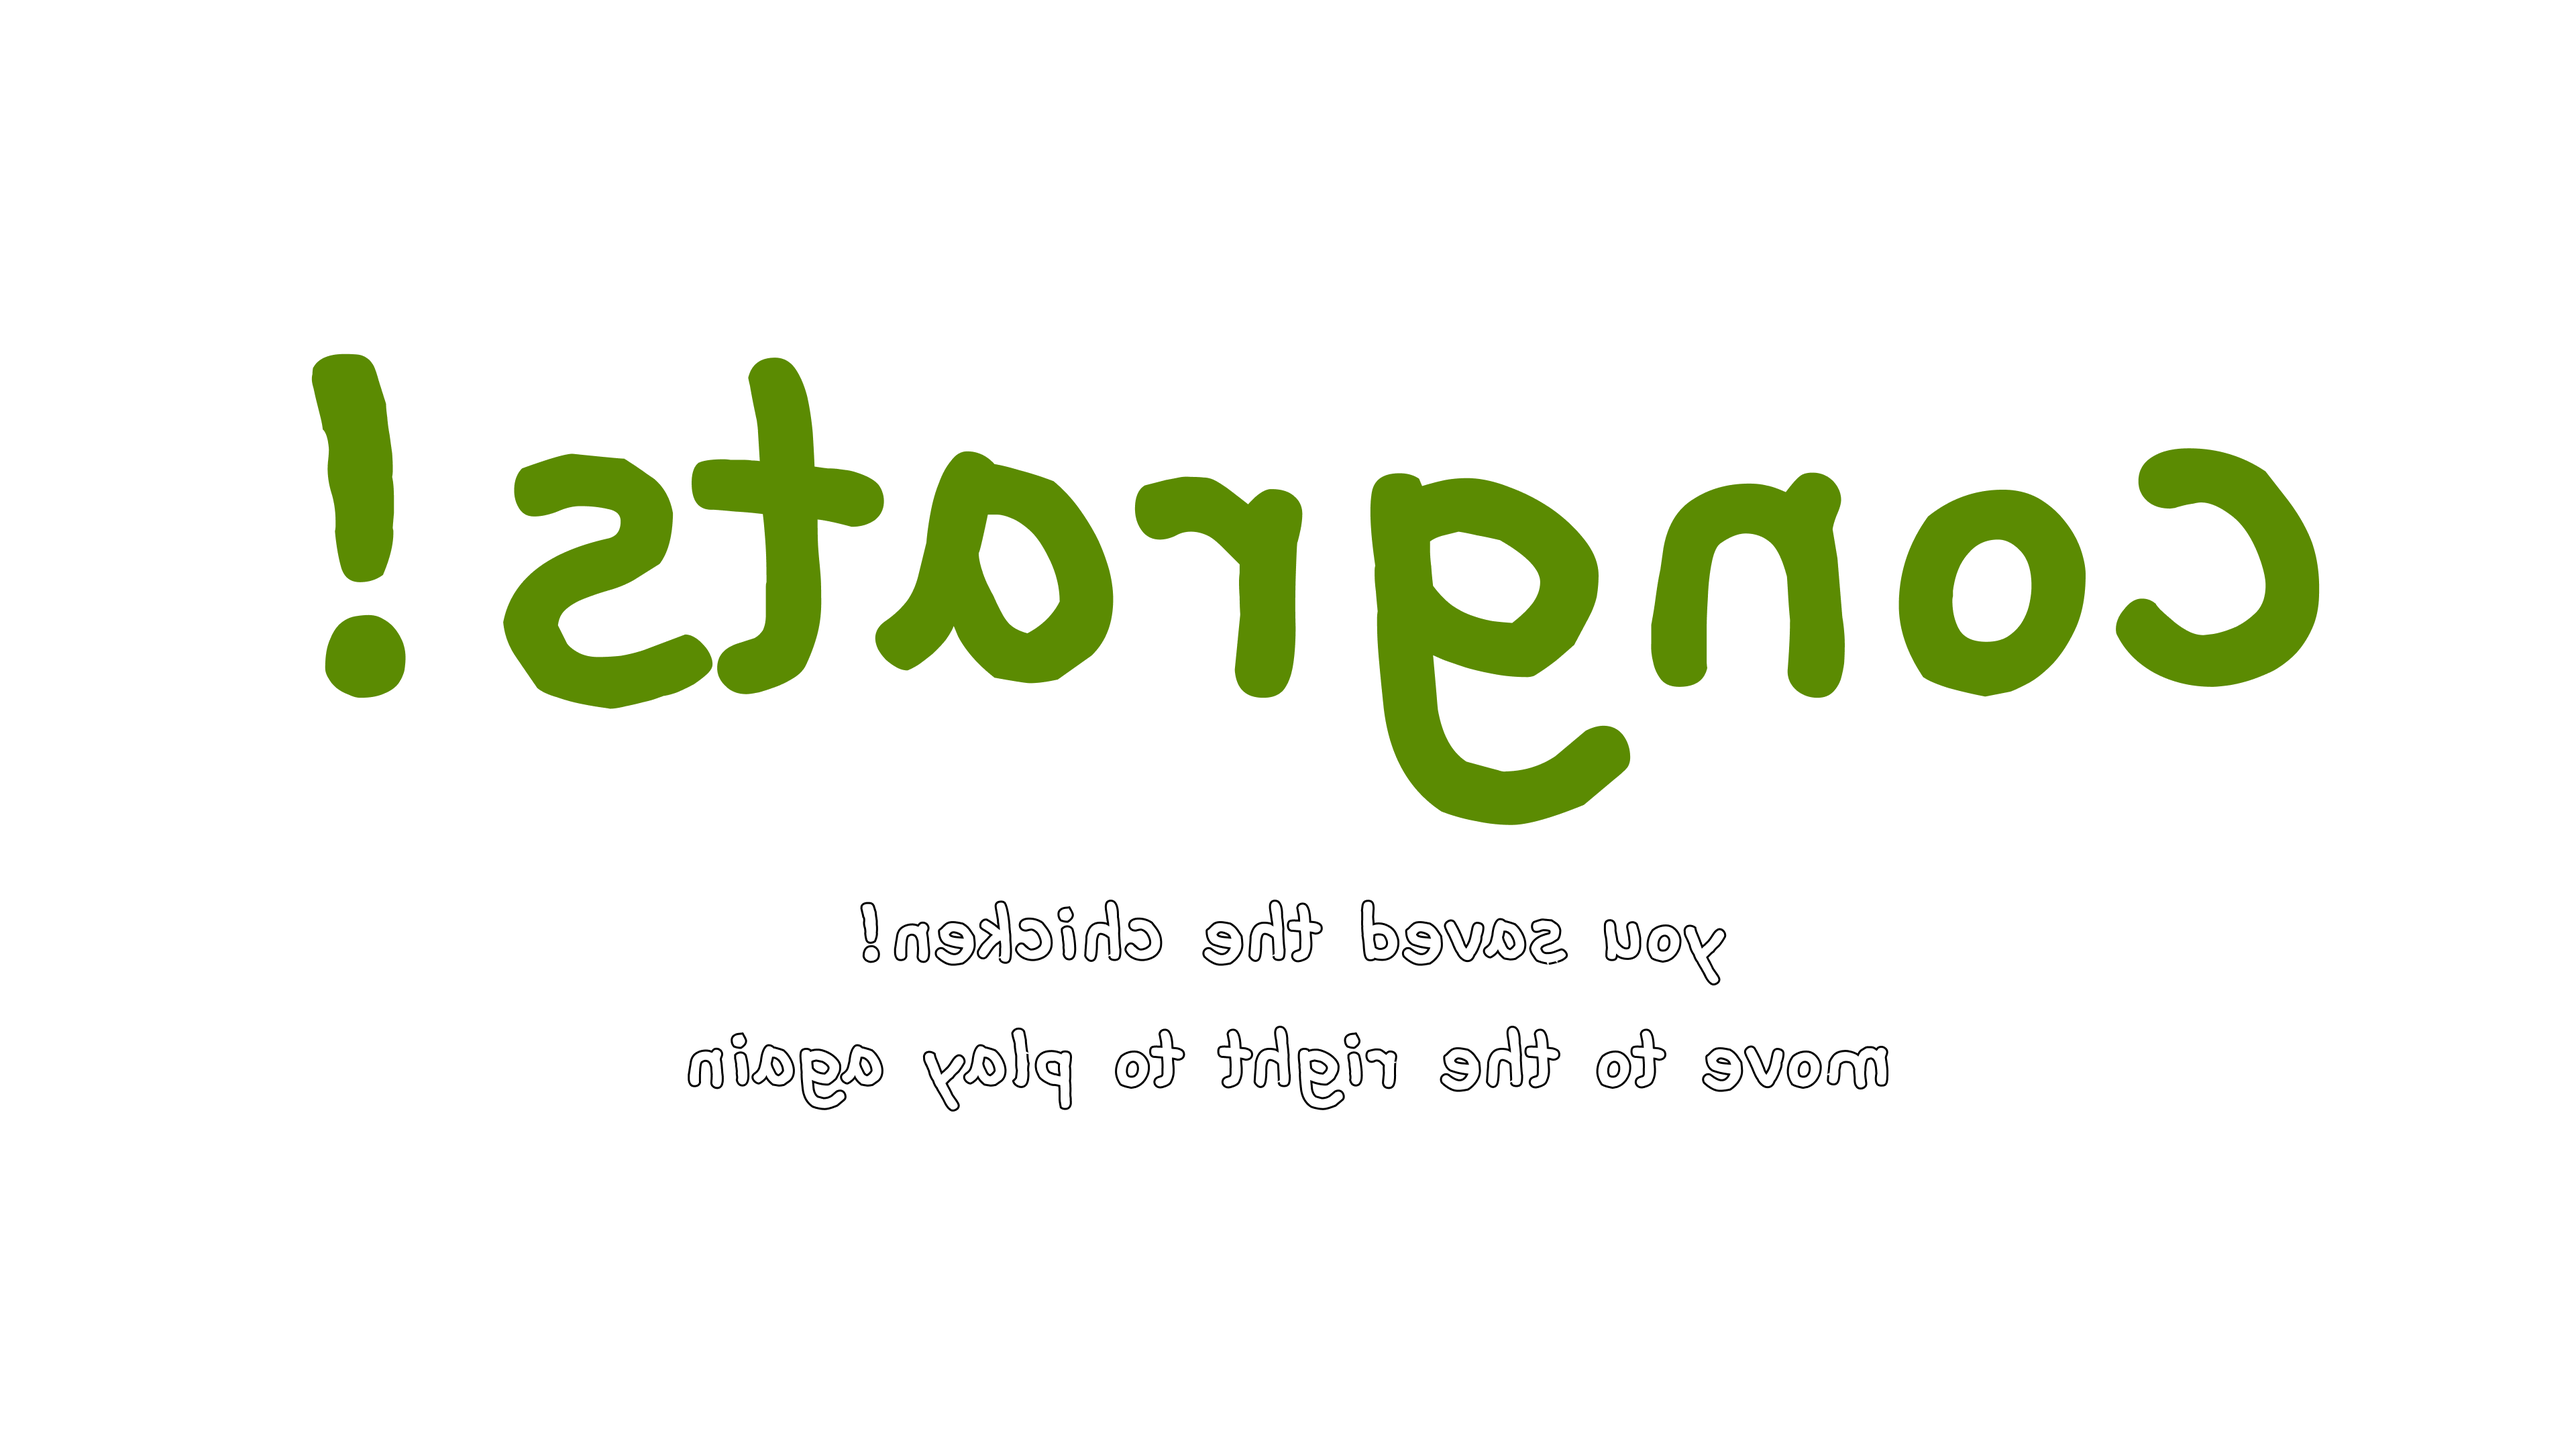
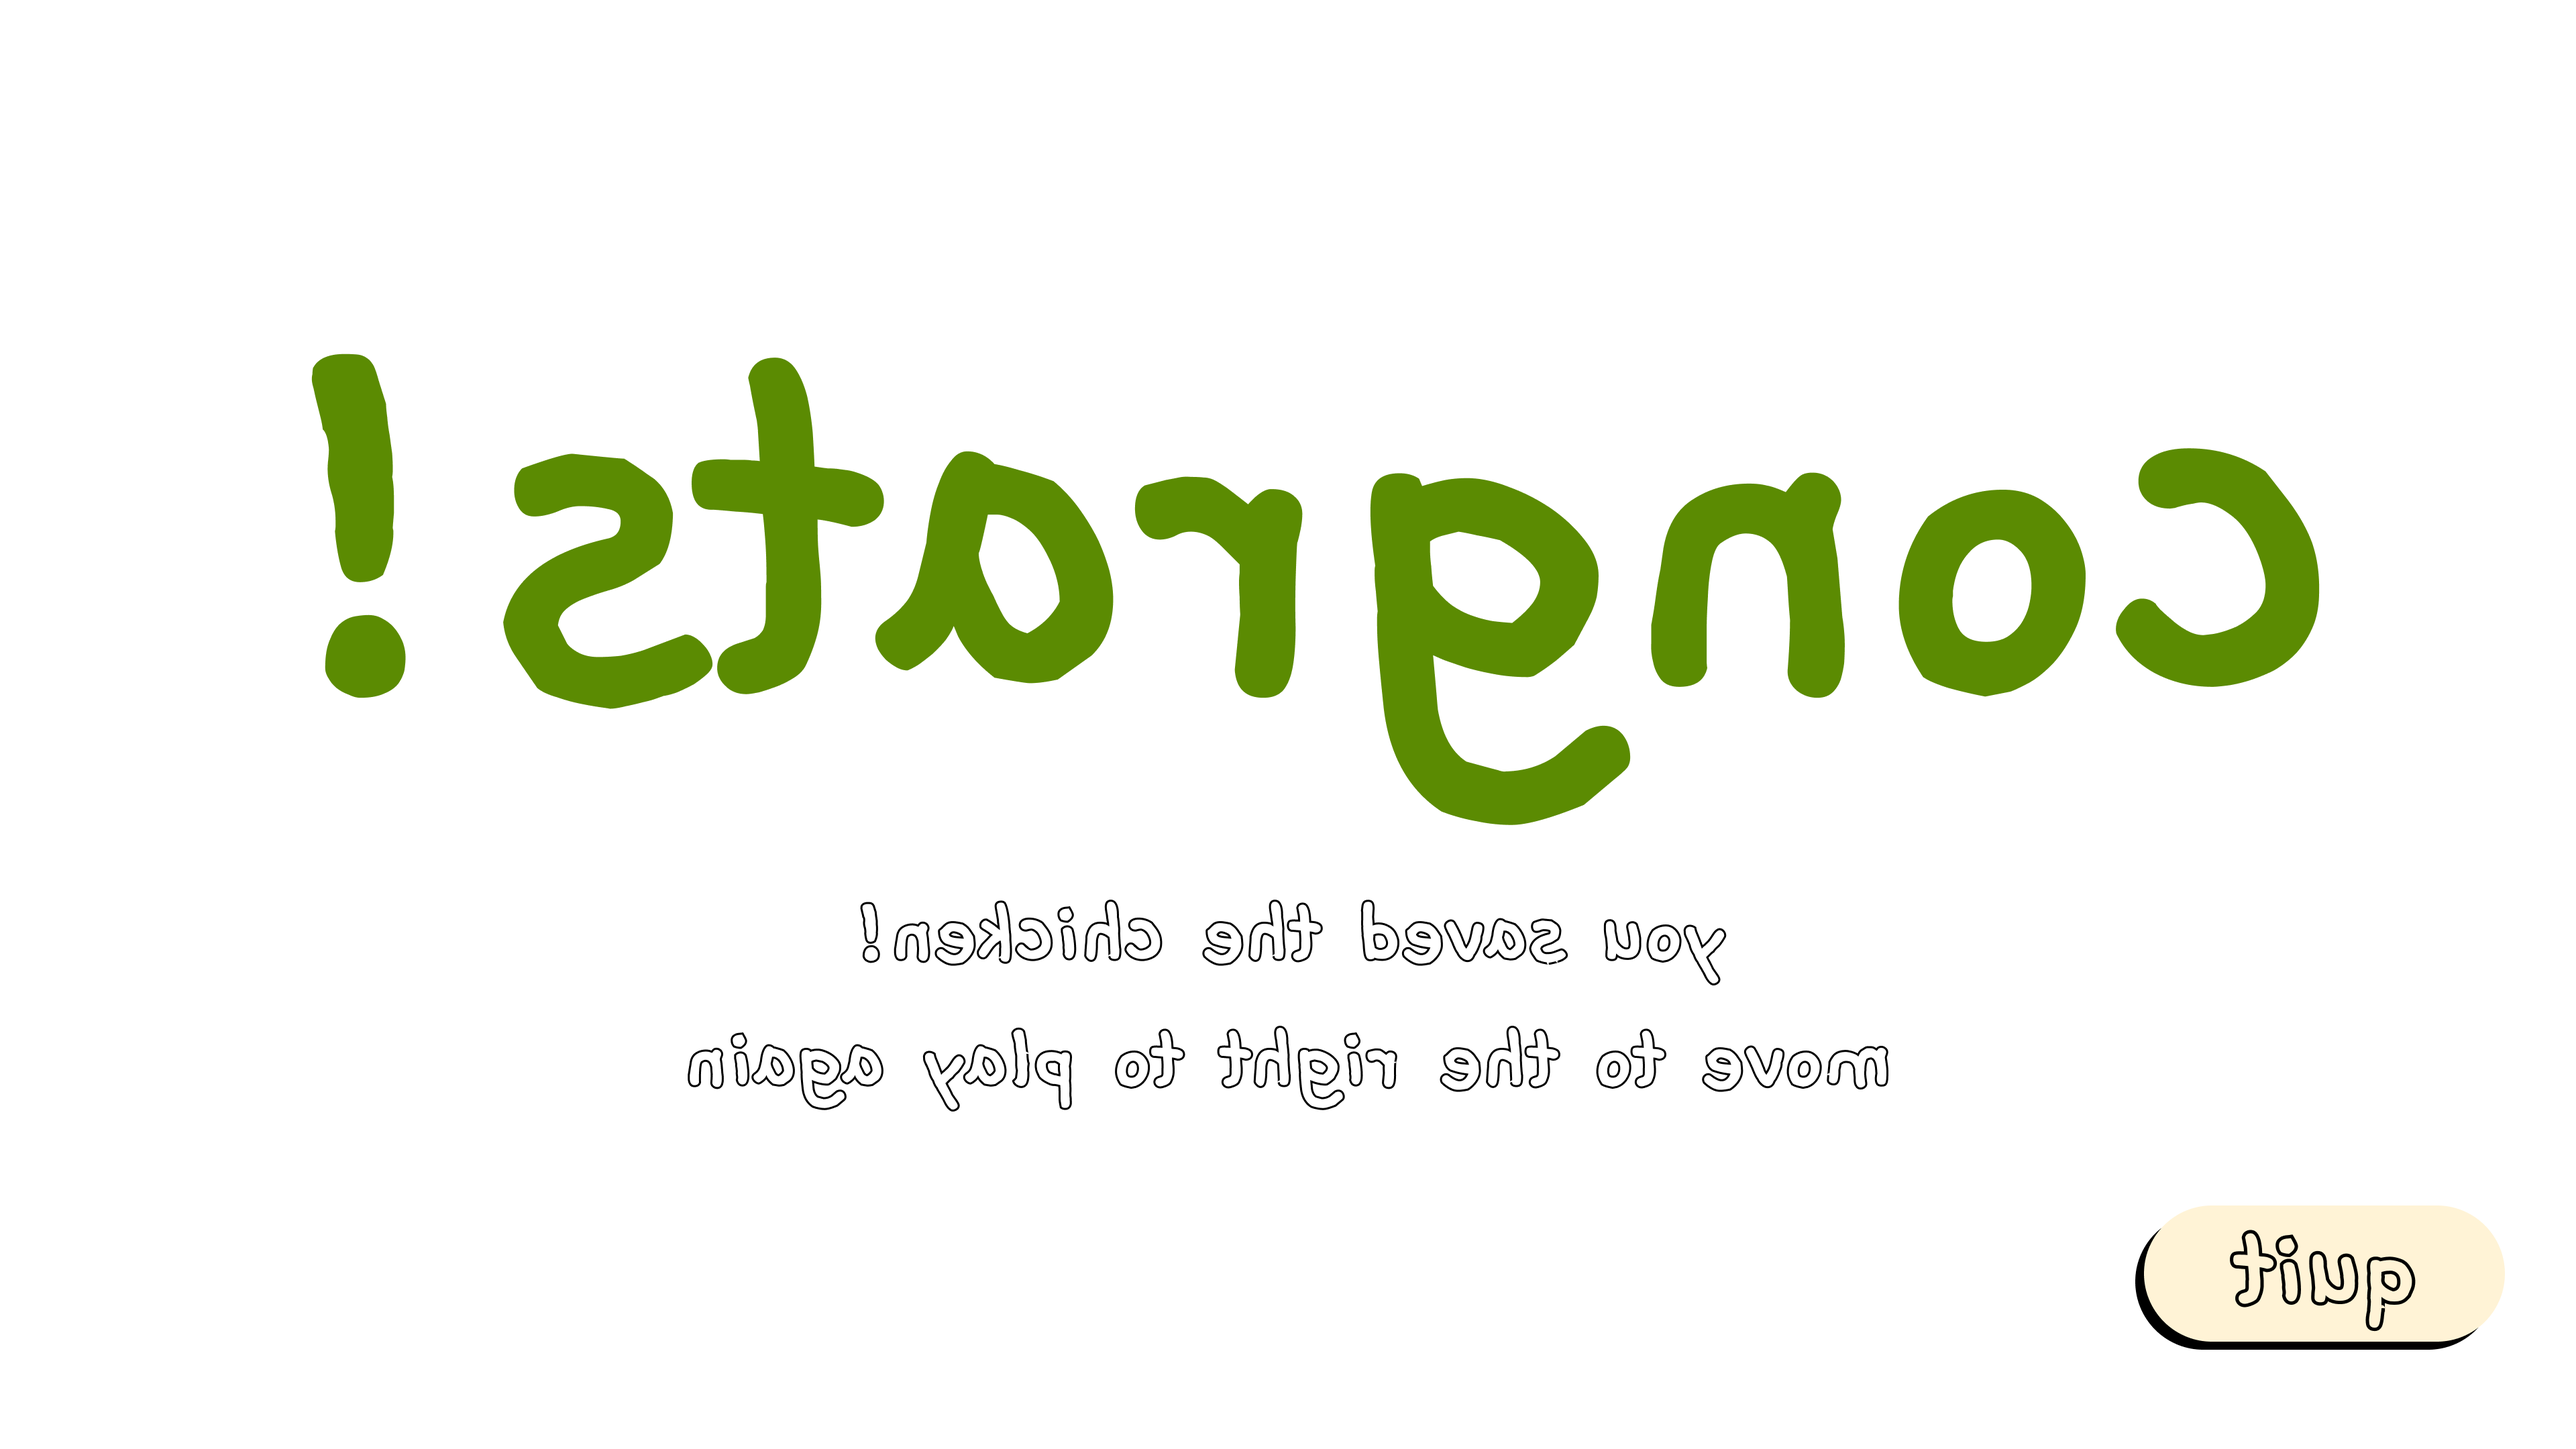
final fix

Changed region(s): [[0.8125, 0.8065, 0.9688, 0.9306]]

diff --git a/level1.js b/level1.js
@@ -34,6 +34,7 @@ function setup() {
   deadImage = loadImage("Images/dead.png");
   introImage = loadImage("Images/intro.png");
   instructionsImage = loadImage("Images/getacross.png");
+  speedImage = loadImage("Images/speed.png");
 
   //level 1 cars
   rng1_1 = random();
@@ -268,8 +269,6 @@ function draw() {
       image(instructionsImage, 0, 0, windowWidth, windowWidth * 0.625);
       image(chickenImage, x - 25, y - 25, 50, 50);
 
-      fill(255, 0, 0);
-      rect(590, 820, 150, 150);
       if (y > 820 && y < 970 && x < 740 && x > 590) {
         intro2Played = true;
       }
@@ -282,7 +281,7 @@ function draw() {
 
       image(chickenImage, x - 25, y - 25, 50, 50);
 
-      if (x < 100) {
+      if (x < windowWidth / 10) {
         gameStarted = true;
       }
     }
@@ -831,6 +830,7 @@ function draw() {
       dead == false
     ) {
       image(backgroundImage, 0, 0, windowWidth, windowWidth * 0.625);
+      image(speedImage, 0, 0, windowWidth, windowWidth * 0.625);
 
       //generate car height
       let car4_1height = 100;
@@ -1029,7 +1029,9 @@ function draw() {
       image(deadImage, x - 25, y - 25, 50, 50);
 
       //play again
-      if (x < 100) {
+      if (x < windowWidth / 10) {
+        intro1Played = true;
+        intro2Played = true;
         gameStarted = false;
         dead = false;
         level1complete = false;
@@ -1040,7 +1042,7 @@ function draw() {
       }
 
       //quit
-      if (x < 100) {
+      if (x > windowWidth - 270 && x < windowWidth - 70 && y > 855 && y < 955) {
         intro1Played = false;
         intro2Played = false;
         gameStarted = false;
@@ -1056,9 +1058,12 @@ function draw() {
     if (level5complete == true) {
       image(backgroundImage, 0, 0, windowWidth, windowWidth * 0.625);
       image(endImage, 0, 0, windowWidth, windowWidth * 0.625);
+      image(chickenImage, x - 25, y - 25, 50, 50);
 
       //play again
-      if (x < 100) {
+      if (x < windowWidth / 10) {
+        intro1Played = true;
+        intro2Played = true;
         gameStarted = false;
         dead = false;
         level1complete = false;
@@ -1069,7 +1074,7 @@ function draw() {
       }
 
       //quit
-      if (x < 100) {
+      if (x > windowWidth - 270 && x < windowWidth - 70 && y > 855 && y < 955) {
         intro1Played = false;
         intro2Played = false;
         gameStarted = false;
